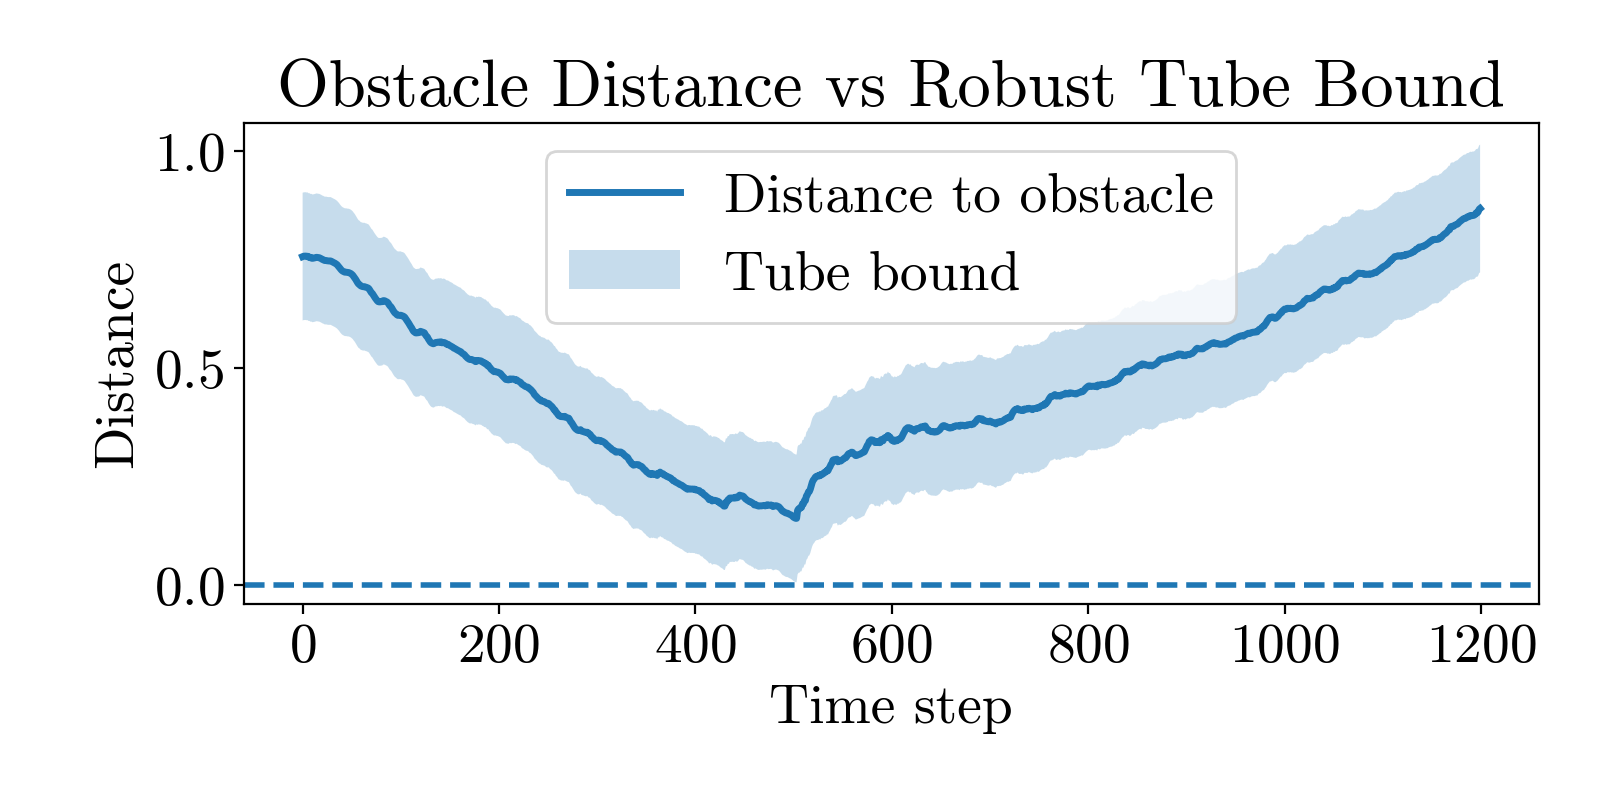
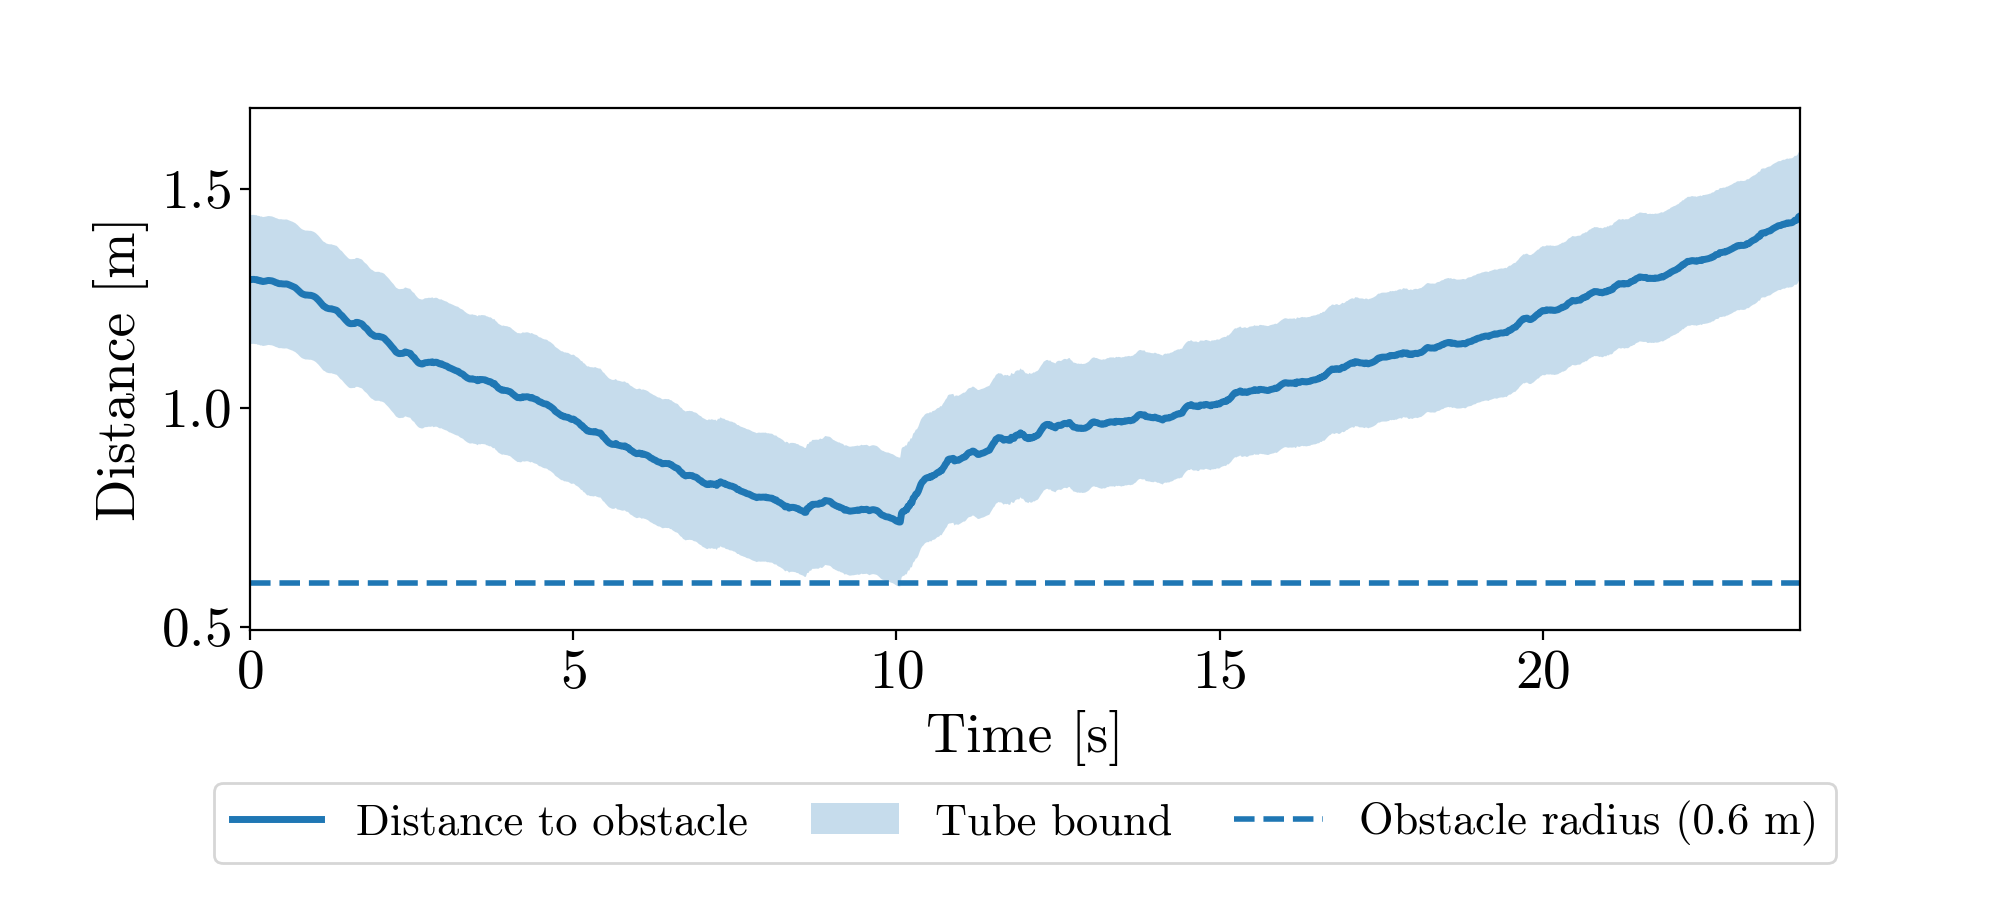
update

Changed region(s): [[0.0625, 0.0625, 0.9688, 0.9688], [0.0312, 0.3125, 0.1562, 0.5938], [0.0312, 0.25, 0.0625, 0.3125]]

diff --git a/mpx/examples/plot_data/plot_tubes_hardware_quad.py b/mpx/examples/plot_data/plot_tubes_hardware_quad.py
@@ -40,8 +40,8 @@ num_files = 1200
 output_mp4 = "xrti_box_tubes.mp4"   # saved in current folder
 frames_dir = "frames_xrti"
 ffmpeg_bin = "ffmpeg"
-obstacle_center = np.array([1.2, -0.4])
-obstacle_radius = 0.5
+obstacle_center = np.array([1.2, -0.5])
+obstacle_radius = 0.6
 fps = 20
 dpi = 160
 
@@ -134,7 +134,7 @@ pad = 0.5
 
 ax.set_xlim(xmin - pad, xmax + pad)
 ax.set_ylim(ymin - pad, ymax + pad)
-ax.set_aspect("equal", adjustable="box")
+ax.set_aspect("auto")
 ax.set_xlabel(r"$p_x$")
 ax.set_ylabel(r"$p_y$")
 
@@ -226,70 +226,62 @@ def export_mp4():
 def plot_obstacle_distance(all_plans, all_upper, all_lower,
                            obstacle_center,
                            obstacle_radius,
-                           save_path="distance_vs_tube.png"):
-    """
-    Plots:
-        distance(current_state, obstacle_center) - obstacle_radius
-    and overlays the tube bounds (upper / lower) from the LAST tube.
-
-    all_plans : list of (T,2)
-    all_upper : list of (T,2)
-    all_lower : list of (T,2)
-    """
-
+                           save_path="distance_vs_tube.pdf"):
     N = len(all_plans)
 
-    # -----------------------------------------
-    # distance from current state to obstacle
-    # -----------------------------------------
     dist = np.zeros(N)
-
     for i in range(N):
-        p = all_plans[i][0]          # current executed state
-        dist[i] = np.linalg.norm(p - obstacle_center) - obstacle_radius
+        p = all_plans[i][0]
+        dist[i] = np.linalg.norm(p - obstacle_center)
 
-    # -----------------------------------------
-    # tube diagonal sizes
-    # -----------------------------------------
     tube_upper = np.zeros(N)
     tube_lower = np.zeros(N)
-
     for i in range(N):
         up = all_upper[i][-1]
         lo = all_lower[i][-1]
-
-        # diagonal tube width
         width = np.linalg.norm(up - lo) / 2.0
-
         tube_upper[i] = dist[i] + width
         tube_lower[i] = dist[i] - width
 
-    # -----------------------------------------
-    # plot
-    # -----------------------------------------
-    fig, ax = plt.subplots(figsize=(8,4))
+    dt = 0.02
+    t = np.arange(N) * dt
 
-    ax.plot(dist, linewidth=2.5, label="Distance to obstacle")
+    fig, ax = plt.subplots(figsize=(10, 4.5))
+
+    ax.plot(t, dist, linewidth=2.5, label="Distance to obstacle")
 
     ax.fill_between(
-        np.arange(N),
+        t,
         tube_lower,
         tube_upper,
         alpha=0.25,
         label="Tube bound"
     )
 
-    ax.axhline(0, linestyle="--", linewidth=2)
+    ax.axhline(
+        obstacle_radius,
+        linestyle="--",
+        linewidth=2,
+        color="tab:blue",
+        label=f"Obstacle radius ({obstacle_radius:.1f} m)"
+    )
 
-    ax.set_xlabel("Time step")
-    ax.set_ylabel("Distance")
-    ax.set_title("Obstacle Distance vs Robust Tube Bound")
+    ax.set_xlabel("Time [s]")
+    ax.set_ylabel("Distance [m]")
+    ax.margins(x=0.0, y=0.1)
 
-    ax.legend()
+    ax.legend(
+        loc="upper center",
+        bbox_to_anchor=(0.5, -0.25),
+        ncol=3,
+        frameon=True,
+        fontsize=16,
+        handlelength=2.0,
+        columnspacing=1.4
+    )
 
-    fig.tight_layout()
+    fig.subplots_adjust(bottom=0.30)
     fig.savefig(save_path, dpi=200)
-
     print("Saved:", save_path)
 
 # -----------------------------------------------------------------------------
